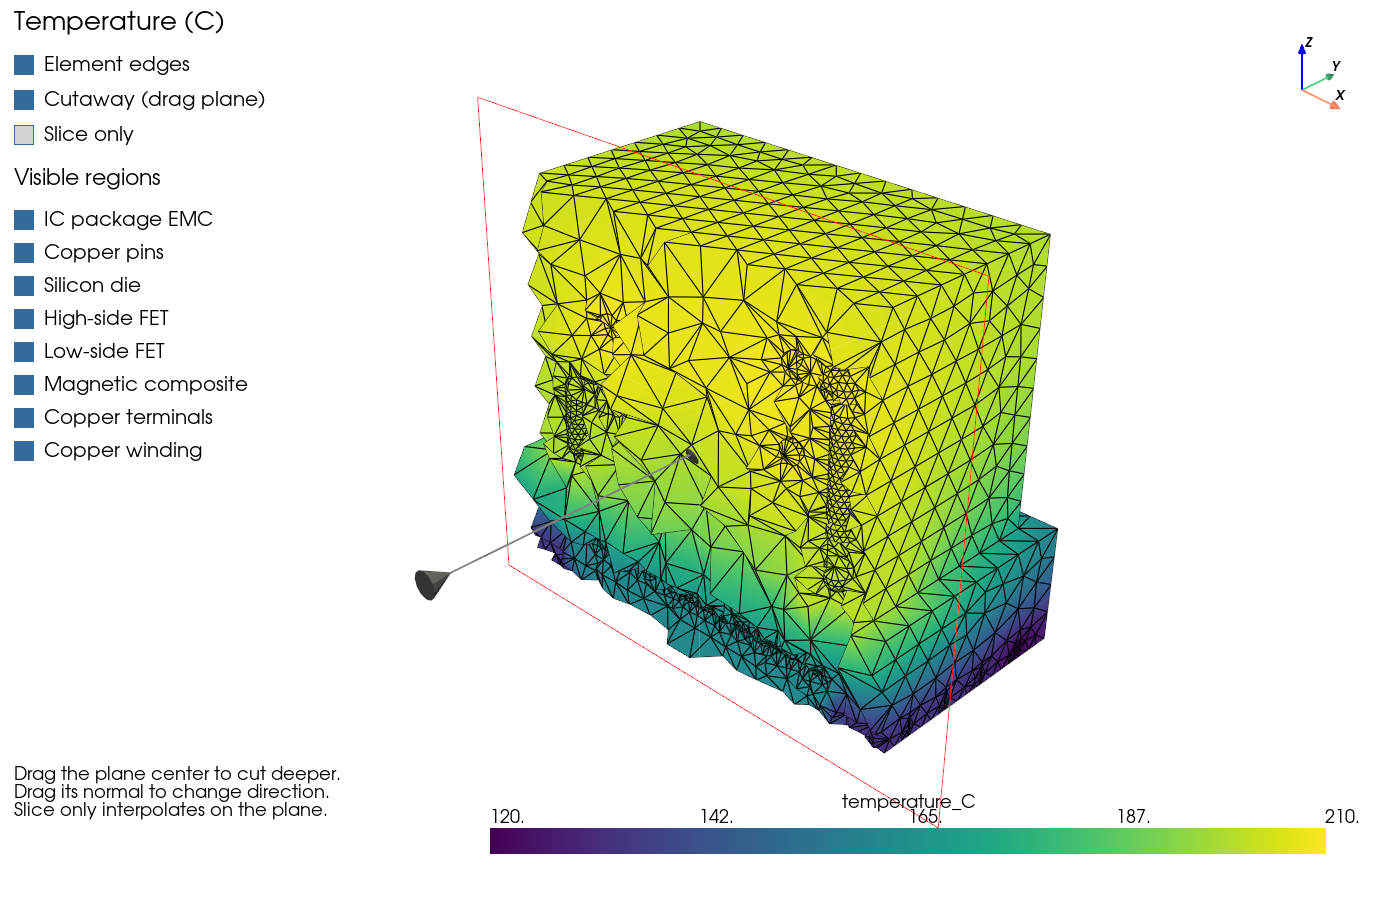
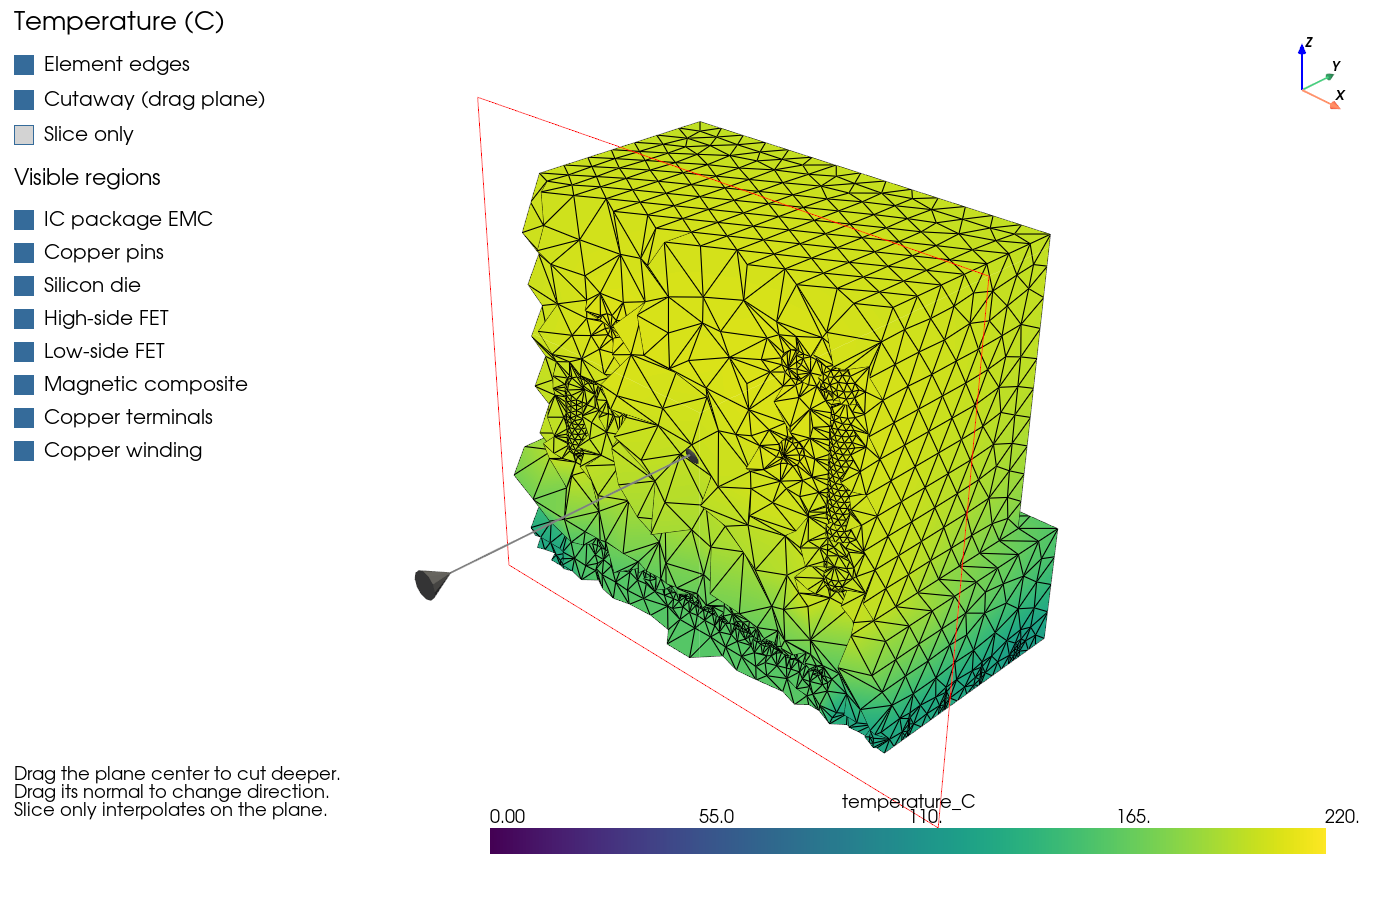
readme

Changed region(s): [[0.3686, 0.4356, 0.7679, 0.84], [0.4914, 0.9022, 0.5221, 0.9333], [0.3379, 0.9022, 0.3686, 0.9333]]

diff --git a/python/render_assembly.py b/python/render_assembly.py
@@ -1,0 +1,96 @@
+"""Render the complete PCB/module geometry with translucent material colors."""
+import argparse
+import json
+from pathlib import Path
+
+import numpy as np
+import pyvista as pv
+import yaml
+
+from geometry import DATA, ROOT
+from pcb_3d import build_assembly, transform
+from view_3d import box, capsule, surface
+from pins import prism_faces
+
+
+MATERIALS = {
+    'fr4': ('FR4 substrate', '#368b70', .24),
+    'copper': ('Copper traces, vias, winding & contacts', '#d58a3b', .78),
+    'ic_epoxy_molding_compound': ('Epoxy molding compound', '#549bd5', .16),
+    'metal_composite': ('Magnetic composite', '#a38ac9', .18),
+    'silicon': ('Silicon die & FET regions', '#3658a0', .65),
+    'unassigned': ('Unassigned material', '#a2aab4', .3),
+}
+
+
+def render(model, output):
+    plotter = pv.Plotter(off_screen=True, window_size=(1600, 1100))
+    plotter.set_background('white')
+    plotter.ren_win.SetMultiSamples(0)
+    plotter.enable_depth_peeling(number_of_peels=100, occlusion_ratio=0)
+    used = set()
+
+    def add(mesh, material, placement=None):
+        material = material if material in MATERIALS else 'unassigned'
+        used.add(material)
+        _, color, opacity = MATERIALS[material]
+        if placement is not None:
+            mesh.points = transform(mesh.points, placement)
+        plotter.add_mesh(mesh, color=color, opacity=opacity, show_edges=False,
+                         ambient=.35, diffuse=.65, specular=.15)
+
+    substrate = model['substrate']
+    if substrate:
+        add(box(substrate['min_mm'], substrate['max_mm']), substrate['material'])
+    for copper in model['pcb_copper']:
+        lower = np.array([[x, y, copper['z_min_mm']] for x, y in copper['polygon_xy_mm']])
+        upper = lower.copy()
+        upper[:, 2] = copper['z_max_mm']
+        faces = [lower[::-1], upper] + [
+            np.array([lower[i], lower[(i+1) % len(lower)],
+                      upper[(i+1) % len(lower)], upper[i]]) for i in range(len(lower))]
+        add(surface(faces), 'copper')
+    for via in model['vias']:
+        x, y = via['center_xy_mm']
+        # An annular surface preserves the open drill instead of filling the via.
+        add(pv.CylinderStructured(
+            radius=np.array([via['drill_radius_mm'], via['barrel_outer_radius_mm']]),
+            height=via['z_max_mm']-via['z_min_mm'],
+            center=(x, y, (via['z_min_mm']+via['z_max_mm'])/2),
+            direction=(0, 0, 1)).extract_surface(), 'copper')
+    module = model['module_definition']
+    for placement in model['module_placements']:
+        for body in module['bodies']:
+            add(box(body['min_mm'], body['max_mm']), body.get('material'), placement)
+        for pin in module.get('pin_solids', []):
+            add(surface(prism_faces(pin)), 'copper', placement)
+        for wire in module.get('capsules', []) + module.get('interconnect_capsules', []):
+            add(capsule(wire['a_mm'], wire['b_mm'], wire['radius_mm']),
+                wire.get('material', 'copper'), placement)
+        for source in module.get('heat_sources', []):
+            if source.get('min_mm') is not None:
+                add(box(source['min_mm'], source['max_mm']), 'silicon', placement)
+    plotter.add_text('PCB + integrated power module', position=(45, 1035),
+                     font_size=22, color='#24354b')
+    plotter.add_text('Transparent material view', position=(45, 995),
+                     font_size=13, color='#536479')
+    plotter.add_legend([(label, color) for key, (label, color, _) in MATERIALS.items()
+                        if key in used], bcolor='white', border=False,
+                       loc='lower left', size=(.39, .18))
+    plotter.add_axes(viewport=(.86, .02, .99, .19))
+    plotter.view_vector((1, -1.35, 1.25), viewup=(0, 0, 1))
+    plotter.enable_parallel_projection()
+    plotter.reset_camera()
+    plotter.camera.zoom(1.15)
+    output.parent.mkdir(parents=True, exist_ok=True)
+    plotter.show(screenshot=str(output))
+
+
+if __name__ == '__main__':
+    parser = argparse.ArgumentParser(description=__doc__)
+    parser.add_argument('--config', type=Path, default=ROOT/'config.yaml')
+    parser.add_argument('--output', type=Path, default=ROOT/'docs/assets/pcb-module-transparent.png')
+    args = parser.parse_args()
+    model = build_assembly(yaml.safe_load(args.config.read_text()),
+                           json.loads((DATA/'footprint.json').read_text()))
+    render(model, args.output)

diff --git a/python/visualize.py b/python/visualize.py
@@ -8,7 +8,7 @@ import yaml
 from geometry import DATA, ROOT, build_model, export_model, plot_model
 
 
-def mesh_view(data, scalar=None, report=None, off_screen=False, series=None):
+def mesh_view(data, scalar=None, report=None, off_screen=False, series=None, clim=None):
     """Show actual element faces with a movable, whole-cell cutaway."""
     import numpy as np
     import pyvista as pv
@@ -24,6 +24,10 @@ def mesh_view(data, scalar=None, report=None, off_screen=False, series=None):
         data.point_data['_thermal_node_index']=np.arange(data.n_points)
         data.point_data['temperature_K']=temperatures[0]
         data.point_data['temperature_C']=temperatures[0]-273.15
+    if clim is not None:
+        clim = tuple(float(value) for value in clim)
+        if len(clim) != 2 or not np.all(np.isfinite(clim)) or clim[0] >= clim[1]:
+            raise ValueError('Color limits must be two finite, increasing values')
     plotter = pv.Plotter(off_screen=off_screen,window_size=(1400,900))
     plotter.set_background('white')
     scalar = scalar or ('temperature_C' if 'temperature_C' in data.point_data else
@@ -38,13 +42,16 @@ def mesh_view(data, scalar=None, report=None, off_screen=False, series=None):
     ids = np.unique(data.cell_data['region_id']) if 'region_id' in data.cell_data else [None]
     actors, originals = {}, {}
     state = dict(cutaway=True,slice=False,edges=True,normal=(0,1,0),origin=data.center)
-    clim = data.get_data_range(scalar) if scalar else None
-    if scalar=='temperature_difference_C':
-        extent=max(abs(clim[0]),abs(clim[1]),1e-12)
-        clim=(-extent,extent)
-    if series is not None and scalar in ('temperature_C','temperature_K','mean_temperature_C'):
-        offset=0 if scalar=='temperature_K' else 273.15
-        clim=(float(temperatures.min()-offset),float(temperatures.max()-offset))
+    if clim is None:
+        if scalar in ('temperature_C','mean_temperature_C'):
+            clim = (0.0, 220.0)
+        elif scalar == 'temperature_K':
+            clim = (273.15, 493.15)
+        else:
+            clim = data.get_data_range(scalar) if scalar else None
+            if scalar == 'temperature_difference_C':
+                extent = max(abs(clim[0]), abs(clim[1]), 1e-12)
+                clim = (-extent, extent)
     for i,region_id in enumerate(ids):
         key = str(int(region_id)) if region_id is not None else 'mesh'
         grid = data.threshold([region_id,region_id],scalars='region_id') if region_id is not None else data
@@ -173,10 +180,18 @@ def main():
     parser = argparse.ArgumentParser(description=__doc__)
     parser.add_argument("input", type=Path, nargs="?", help="VTK dataset, e.g. output/result.vtu")
     parser.add_argument("--scalar", help="Optional field name to color")
+    parser.add_argument("--clim", type=float, nargs=2, metavar=("MIN", "MAX"),
+                        help="Fixed color limits in selected field units; temperature defaults to 0-220 C")
     parser.add_argument("--model", type=Path, help="Open a saved model instead of rebuilding the full assembly")
     parser.add_argument("--backend", help="Viewer backend: pyvista or off_screen")
     parser.add_argument("--screenshot", type=Path)
     args = parser.parse_args()
+    if args.clim is not None:
+        import math
+        if not all(math.isfinite(value) for value in args.clim) or args.clim[0] >= args.clim[1]:
+            parser.error('--clim requires two finite, increasing values')
+        if args.input is None or args.input.name == 'magnetic.vtu':
+            parser.error('--clim requires a scalar dataset supported by the mesh viewer')
     if args.input is None:
         if args.model and args.model.is_file():
             model = json.loads(args.model.read_text())
@@ -215,7 +230,7 @@ def main():
     report_path = args.input.with_name('report.json')
     if not report_path.is_file():report_path=args.input.with_name('comparison.json')
     report = json.loads(report_path.read_text()) if report_path.is_file() else None
-    plotter = mesh_view(data,args.scalar,report,off_screen=bool(args.screenshot),series=series)
+    plotter = mesh_view(data,args.scalar,report,off_screen=bool(args.screenshot),series=series,clim=args.clim)
     if args.screenshot:
         args.screenshot.parent.mkdir(parents=True,exist_ok=True)
     plotter.show(screenshot=str(args.screenshot) if args.screenshot else None)

diff --git a/README.md b/README.md
@@ -1,8 +1,8 @@
 # CUDA Thermal & Electromagnetic Simulation for PoL DC–DC Modules
 
-I developed this simulation workflow for a company project to study heat flow and magnetic fields in a point-of-load (PoL) buck converter with an integrated inductor. This repository presents my work in **power electronics modeling, CUDA C++, finite element methods, and engineering visualization**.
+This repository provides a simulation workflow for thermal and magnetic field analysis of a point-of-load (PoL) buck converter with an integrated inductor. The workflow combines **power electronics modeling, CUDA C++, finite element methods, and engineering visualization**.
 
-## What I built
+## Capabilities
 
 - Parameterized 3D models of the package, silicon die, MOSFET regions, copper winding, terminals, and PCB assembly.
 - Gmsh tetrahedral meshing with material and boundary assignments.
@@ -11,19 +11,25 @@ I developed this simulation workflow for a company project to study heat flow an
 
 ## 3D model
 
-![Parameterized 3D module showing winding, package, die, FET regions, and pins](docs/assets/module-3d.png)
+<img src="docs/assets/module-3d.png" alt="Parameterized 3D module showing winding, package, die, FET regions, and pins" height="300">
 
-I built a parameterized module model with an integrated copper winding, magnetic composite, silicon die, MOSFET regions, and copper pins. Transparent package views expose the internal arrangement; internal geometry is illustrative.
+The parameterized module model includes an integrated copper winding, magnetic composite, silicon die, MOSFET regions, and copper pins. Transparent package views expose the internal arrangement; internal geometry is illustrative.
 
 ## Meshing
 
-![Gmsh tetrahedral mesh cutaway colored by material region](docs/assets/tetrahedral-mesh.png)
+| Internal mesh | Full mesh |
+| --- | --- |
+| <img src="docs/assets/mesh-internal.png" alt="Internal tetrahedral mesh" height="300"> | <img src="docs/assets/mesh.png" alt="Full tetrahedral mesh" height="300"> |
 
-I generated a conforming tetrahedral volume mesh with shared material interfaces and local refinement around small features. The cutaway shows the actual elements used for finite element analysis.
+Gmsh generates a conforming tetrahedral volume mesh with shared material interfaces and local refinement around small features. The mesh views show the elements used for finite element analysis.
 
 ## Temperature distribution
 
-![CUDA temperature solution displayed on a 3D module cutaway in degrees Celsius](docs/assets/temperature-distribution.png)
+| Air cooled | Liquid cooled |
+| --- | --- |
+| <img src="docs/assets/temperature-distribution.png" alt="Air-cooled temperature distribution, fixed 0-220 C scale" height="300"> | <img src="docs/assets/temperature-liquid.png" alt="Liquid-cooled temperature distribution, fixed 0-220 C scale" height="300"> |
+
+Both views use a fixed **0–220 °C** color scale for direct temperature comparison. The viewer preserves this scale during transient playback. The `--clim MIN MAX` option sets custom limits in the selected field's units.
 
 The 3D temperature field reveals hot regions and heat flow through the winding, package, die, and pins.
 
@@ -36,7 +42,7 @@ The saved converged runs compare the same electrical operating conditions with a
 
 Cooling the inductor top lowers internal temperatures, while the die remains warmer than the package surface. See the [air/liquid comparison plot](docs/assets/cooling-comparison.png).
 
-**What CUDA solves:** the heat equation over the module's 3D mesh:
+**Thermal formulation:** the CUDA solver discretizes the heat equation over the module's 3D mesh:
 
 $$
 \rho c_p\frac{\partial T}{\partial t}-\nabla\cdot(k\nabla T)=q
@@ -48,15 +54,21 @@ MOSFET and winding conduction losses follow $P=I_{\mathrm{rms}}^2R(T)$, alongsid
 
 CUDA assembles linear tetrahedral finite elements and solves the sparse system in double precision using Jacobi-preconditioned conjugate gradients. Transient runs use implicit backward Euler. Iterations update temperature-dependent resistance and radiation; reports check convergence and heat balance.
 
-## Magnetic field lines and EMI inspection
+## PCB and module assembly model
 
-![3D magnetic field streamlines and flux-density cutaway around the module and PCB](docs/assets/magnetic-field-lines.png)
+<img src="docs/assets/pcb-module-transparent.png" alt="Transparent PyVista view of the complete PCB and module assembly, colored by material" height="300">
 
-Orange streamlines show the magnetic field paths around the winding and PCB; the colored cutaway shows flux density. This view supports inspection of magnetic near-field leakage relevant to EMI. Streamlines interpolate the computed field for display; this is a quasistatic magnetic model, not a radiated-emissions prediction.
+The assembly model combines PCB copper routing, vias, and an FR4 substrate with the module package, magnetic composite, copper winding, pins, interconnects, and silicon die. Distinct, semitransparent material colors reveal the internal arrangement of the complete assembly. Internal module geometry and PCB assembly dimensions include preliminary modeling assumptions.
+
+## Quasistatic magnetic fields and EMI inspection
+
+<img src="docs/assets/magnetic-field-arrows.png" alt="Close-up quasistatic magnetic field arrows and flux-density cutaway" height="300">
+
+Arrows show magnetic field direction around the winding; the colored cutaway shows flux density. This close-up supports inspection of magnetic near-field leakage relevant to EMI. This is a quasistatic magnetic model, not a radiated-emissions prediction.
 
 The full-module workflow computes distributed conductor currents for high-side and low-side switching states before solving their magnetic fields.
 
-**What CUDA solves:** the magnetic vector potential $\mathbf A$:
+**Magnetic formulation:** the CUDA solver computes the magnetic vector potential $\mathbf A$:
 
 $$
 \nabla\times\left(\mu^{-1}\nabla\times\mathbf A\right)=\mathbf J,
@@ -65,7 +77,7 @@ $$
 
 Here, $\mathbf J$ is current density, $\mu$ is magnetic permeability, and $\mathbf B$ is magnetic flux density. CUDA uses tetrahedral edge finite elements with gauge fixing and an iterative sparse solver. Python prepares conductor currents; field snapshots follow the ideal buck waveform, with $D=V_{\mathrm{out}}/V_{\mathrm{in}}$ and $\Delta I=V_{\mathrm{out}}(1-D)/(Lf_s)$.
 
-## Scope and running
+## Model scope and execution
 
 These are preliminary model predictions using assumed internal geometry and material/loss inputs; experimental validation and mesh convergence are not established. Magnetics assumes linear materials and excludes eddy currents, saturation, and hysteresis. Thermal losses are configured estimates rather than losses extracted from the magnetic solution.
 
@@ -80,7 +92,7 @@ uv run python/mesh.py
 uv run python/thermal.py --compare
 uv run python/em.py
 uv run python/visualize.py output/thermal/temperature.vtu
-uv run python/em_view.py output/em/magnetic.vtu --streamlines
+uv run python/em_view.py output/em/magnetic.vtu
 ```
 
 Implementation: [thermal CUDA solver](src/thermal.cu), [magnetic CUDA solver](src/em.cu), and [Python modeling tools](python/).
